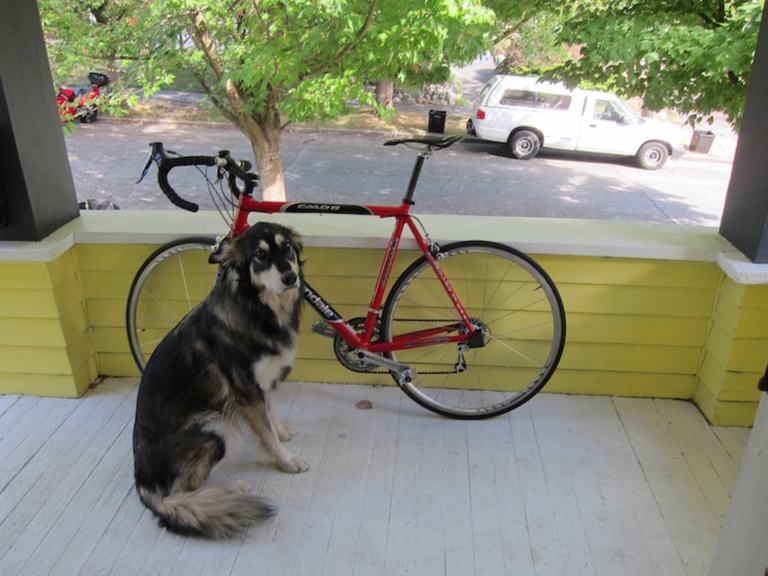
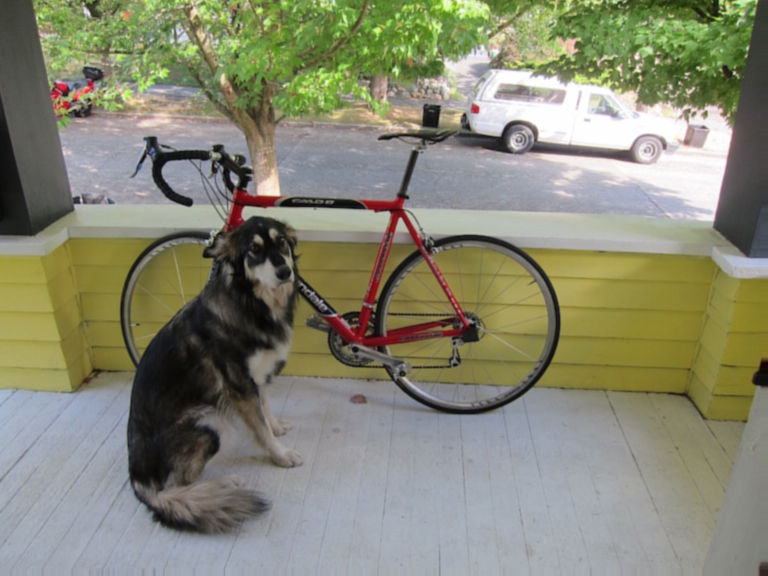
Finish gaussian kernel

diff --git a/src/filter_image.c b/src/filter_image.c
@@ -169,25 +169,39 @@ image make_gaussian_filter(float sigma)
         ret = make_box_filter(6*sigma);
 
 float val;
-    for(int j=0; j<ret.h; j++) {
-        for(int i=0; i<ret.w; i++) {
-            val =  1 / (exp((i*i + j*j) /2*sigma*sigma) * 2*M_PI*sigma*sigma);
-            set_pixel(ret, i, j, 0, val);
-            printf("%f|\t",val);
+int jfal, ifal;
+
+ jfal=0;
+    // for(int j=-1*ret.h/2; j<=ret.h/2; j++,jfal++) {
+    //     ifal=0;
+    //     for(int i=-1*ret.w/2; i<=ret.w/2; i++, ifal++) {
+    //         printf("%d,%d(%d, %d)|\t",i,j,ifal,jfal);
+    //     }
+    //     printf("\n");
+    // }
+float exparg;
+    jfal=0;
+    for(int j=-1*ret.h/2; j<=ret.h/2; j++,jfal++) {
+        ifal=0;
+        for(int i=-1*ret.w/2; i<=ret.w/2; i++, ifal++) {
+            exparg = -(i*i + j*j) / (2*sigma*sigma);
+            val =   expf(exparg)/(2*M_PI*sigma*sigma); 
+            set_pixel(ret, ifal, jfal, 0, val);
+            //printf("%f |\t", val);
         }
-        printf("\n");
+        //printf("\n");
     }
 
     l1_normalize(ret);
 
-    printf("\n");printf("\n");
+    //printf("\n");printf("\n");
 
-    for(int j=0; j<ret.h; j++) {
-        for(int i=0; i<ret.w; i++) {
-            printf("%f|\t",get_pixel(ret, i, j, 0));
-        }
-        printf("\n");
-    }
+    // for(int j=0; j<ret.h; j++) {
+    //     for(int i=0; i<ret.w; i++) {
+    //         printf("%f|\t",get_pixel(ret, i, j, 0));
+    //     }
+    //     printf("\n");
+    // }
 
     return ret;
 }

diff --git a/testpy.py b/testpy.py
@@ -64,4 +64,4 @@ from uwimg import *
 im = load_image("data/dog.jpg")
 f = make_gaussian_filter(2)
 blur = convolve_image(im, f, 1)
-save_image(blur, "dog-gauss2")
+save_image(blur, "dog-gauss21")
